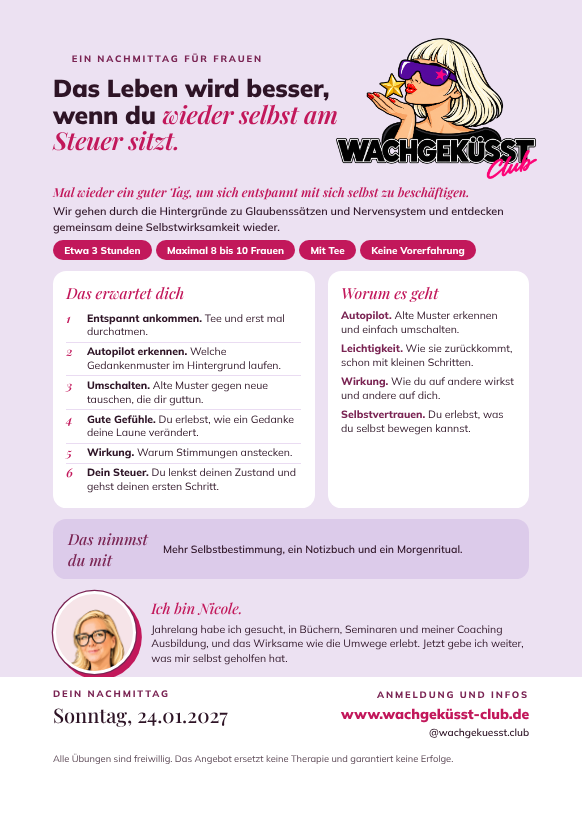
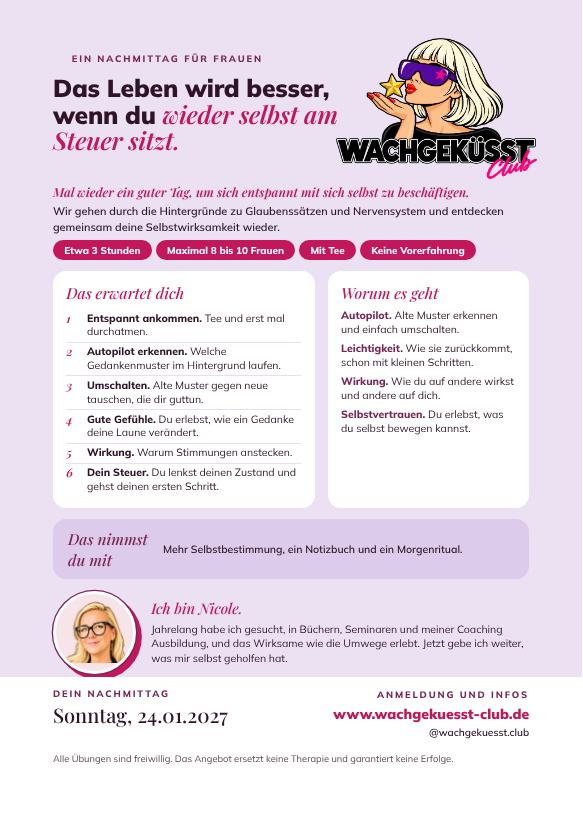
Einladungsflyer: Domain mit ue, Porträt im Kreis höher
Claude-Session: https://claude.ai/code/session_012RkXKHd7QdZvdLC7yskjFf

Changed region(s): [[0.1235, 0.7344, 0.2161, 0.8262], [0.5557, 0.8568, 0.7719, 0.8874]]

diff --git a/wachgekuesst/einladung/flyer_einladung_a5.html b/wachgekuesst/einladung/flyer_einladung_a5.html
@@ -34,7 +34,7 @@ h1 em{font-family:"Playfair Display",serif;font-weight:600}
 .mit h2{font-size:11.5pt;font-style:italic;color:var(--weinrot)}
 .mit p{margin:0;font-size:7.9pt;line-height:1.35;font-weight:600}
 .ich{margin-top:3mm;display:grid;grid-template-columns:22mm 1fr;gap:4mm;align-items:center}
-.foto img{width:80%;height:80%;object-fit:contain;display:block;margin-top:auto}
+.foto img{width:80%;height:80%;object-fit:contain;display:block;margin-bottom:auto;margin-top:2mm}
 .foto{width:22mm;height:22mm;border-radius:50%;background:#F6E4E8;border:.8mm solid #fff;box-shadow:0 0 0 .35mm var(--weinrot),1.2mm 1.2mm 0 .35mm var(--pink);overflow:hidden;display:flex;align-items:center;justify-content:center;text-align:center;font-size:5.8pt;color:var(--weinrot);line-height:1.25}
 .ich p{margin:0;font-size:7.9pt;line-height:1.35}
 .ich .name{font-family:"Playfair Display",serif;font-size:11pt;color:var(--pink);font-style:italic;margin-bottom:.8mm}
@@ -97,7 +97,7 @@ h1 em{font-family:"Playfair Display",serif;font-weight:600}
    <div class="datum">Sonntag, 24.01.2027</div>
   </div>
   <div class="rechts">
-   <p class="ober" style="margin-bottom:.6mm">ANMELDUNG UND INFOS</p><p class="dom">www.wachgeküsst-club.de</p>
+   <p class="ober" style="margin-bottom:.6mm">ANMELDUNG UND INFOS</p><p class="dom">www.wachgekuesst-club.de</p>
    @wachgekuesst.club
   </div>
  </div>

diff --git a/wachgekuesst/00_vorgabe.md b/wachgekuesst/00_vorgabe.md
@@ -59,3 +59,4 @@ Ziel: Die Texte sollen sich lesen, als hätte ein Mensch sie geschrieben. Grundl
 - (01.11.2026) Korrektur: Sprechtext ist ausformulierter, fließender Text in Nicoles Stimme, den sie so vorlesen kann. Keine Stichpunkte, keine Telegrammsätze, Übungsanleitungen ebenfalls als gesprochener Text. „Auf das Wesentliche kürzen“ heißt Wiederholungen, Füllsätze und doppelte Beispiele streichen. Der Inhalt bleibt vollständig: Jede Stufe erklärt ihr Thema (Nervensystem, Glaubenssätze, Körper, Frequenz, Resonanz, geistige Gesetze, Manifestation, Vision, Selbstermächtigung) verständlich zu Ende.
 - (01.11.2026) Korrektur: Überschriften nennen immer das Thema, z. B. „Stufe 1 · Nervensystem und Glaubenssätze“. Die Susi Szene (Wecker, Sofa usw.) steht höchstens als Unterzeile, weil man an ihr nicht erkennt, wo man inhaltlich ist.
 - (01.11.2026) Korrektur: Gruppengröße ist maximal 8 bis 10 Frauen (vorher 8 bis 15). Kein Zitronenexperiment auf dem Einladungsflyer. Einfache Wörter wie Autopilot, Leichtigkeit, Wirkung, Selbstvertrauen statt Frequenz, Resonanz, Manifestation. Auf dem Flyer heißt sie nur Nicole, ohne Nachname.
+- (01.11.2026) Korrektur: Die Domain wird mit ue geschrieben: www.wachgekuesst-club.de (nicht mit ü).
